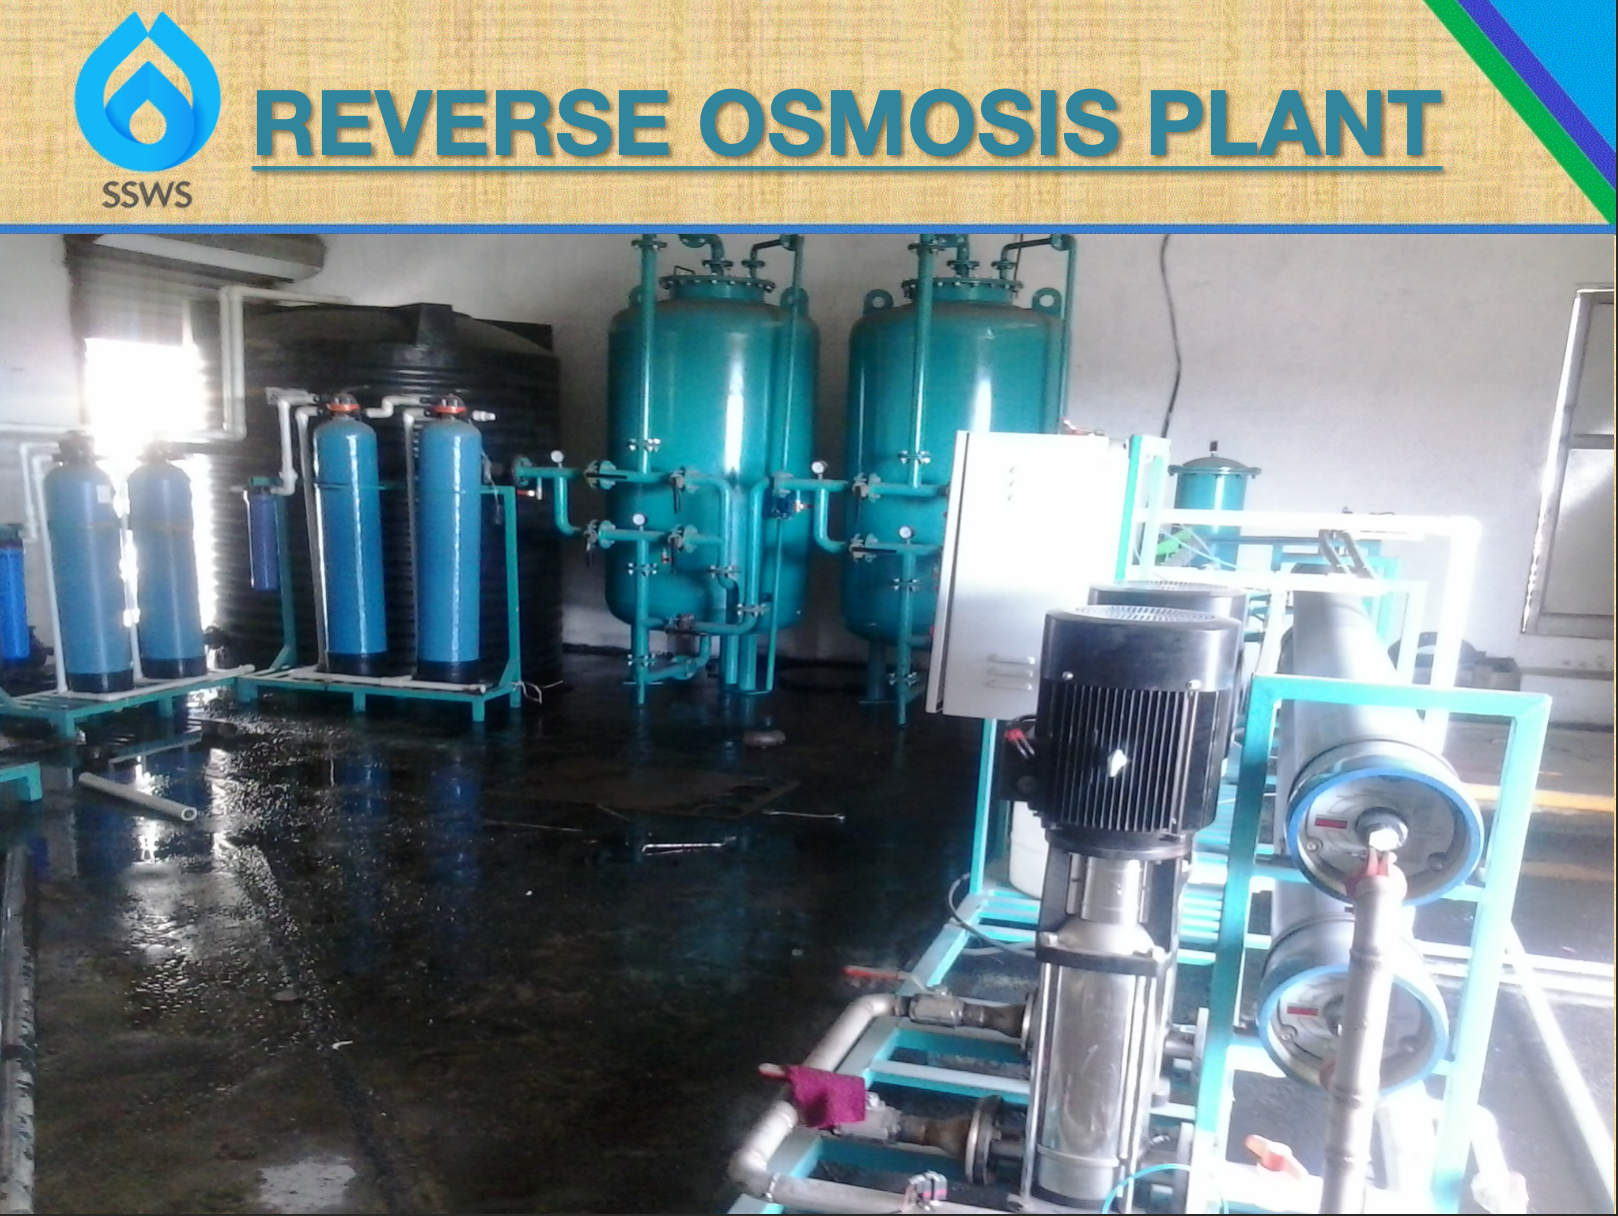
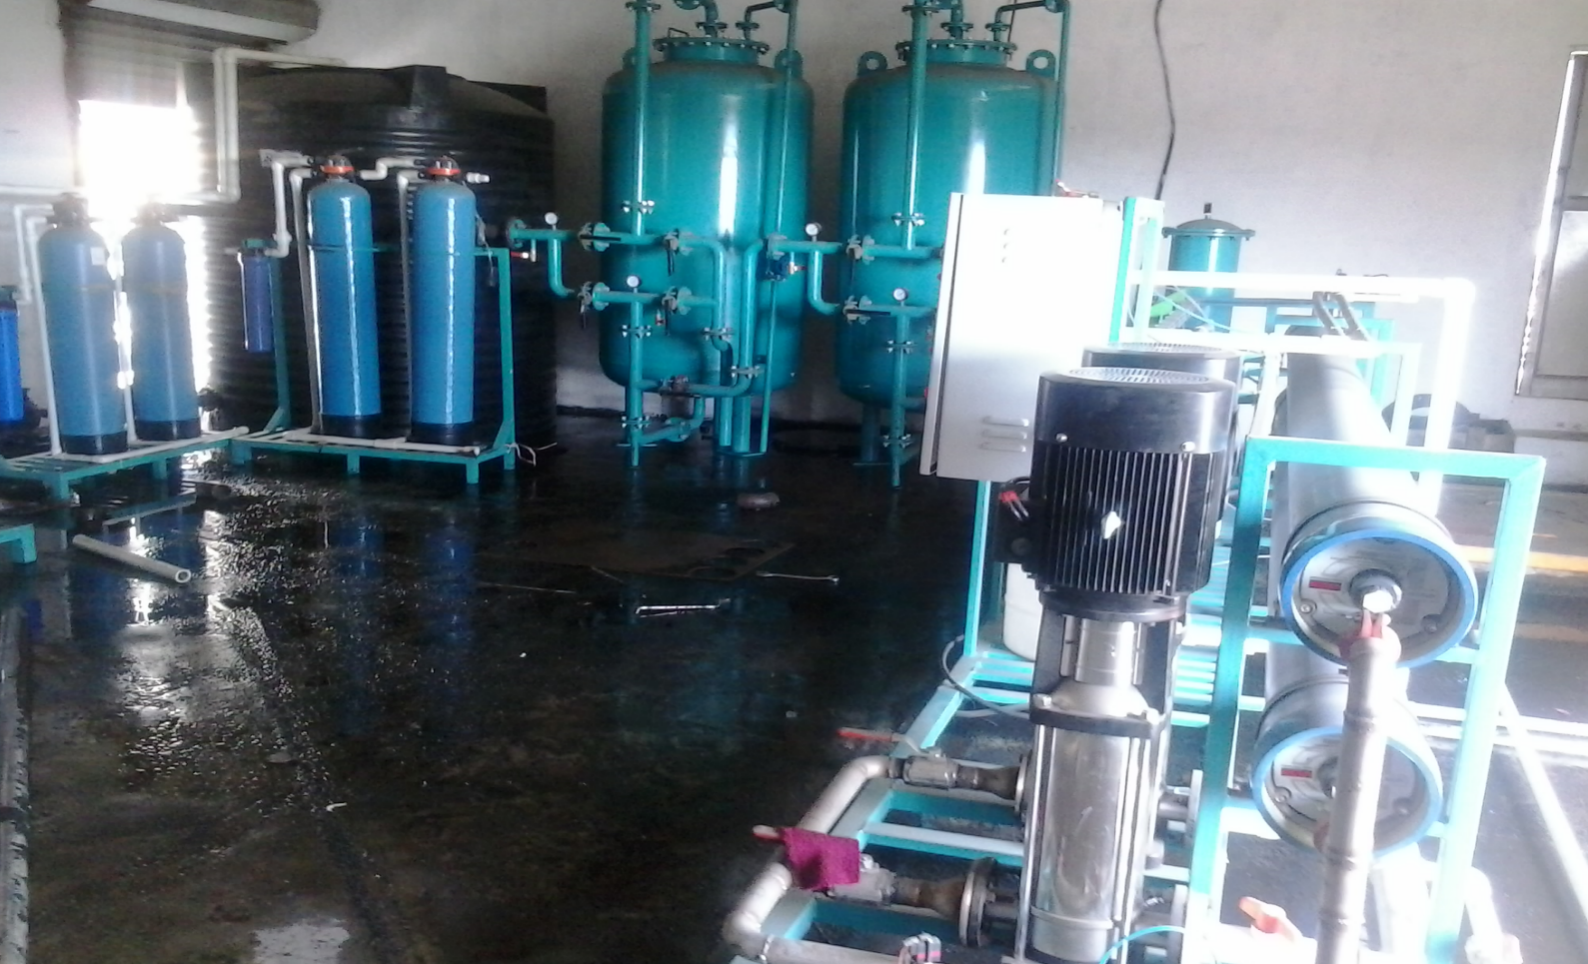
Update product images and modify Home and Filtration Plant pages
- Replaced the image for the Filtration Plant with a new image.
- Added a new product entry for Advanced Filtration on the Home page.
- Updated image references in the Filtration Plant page and removed outdated images.
- Adjusted navigation link for products to point to the water treatment section.

diff --git a/src/pages/Home.jsx b/src/pages/Home.jsx
@@ -58,9 +58,16 @@ const Home = () => {
     {
       name: 'Filtration Plant',
       description: 'Media, cartridge & membrane filtration technologies',
-      image: '/products/Water Filtration/Water Filtration 1.png',
+      image: '/products/Water Filtration/Water Filtration 3.JPG',
       path: '/products/filtration-plant',
       icon: '🏭'
+    },
+    {
+      name: 'Advanced Filtration',
+      description: 'High-efficiency filtration systems for industrial applications',
+      image: '/products/Water Filtration/Water Filtration 4.jpg',
+      path: '/products/filtration-plant',
+      icon: '🔧'
     },
     {
       name: 'Softener Plant',
@@ -367,7 +374,7 @@ const Home = () => {
                 </svg>
             </Link>
               <Link
-                to="/products"
+                to="/products/water-treatment"
                 className="border-2 border-white text-white px-8 py-4 rounded-xl font-semibold text-lg transition-all duration-300 hover:scale-105 hover:bg-white hover:text-blue-600 inline-flex items-center justify-center"
               >
                 View All Products

diff --git a/src/pages/products/FiltrationPlant.jsx b/src/pages/products/FiltrationPlant.jsx
@@ -69,7 +69,7 @@ const FiltrationPlant = () => {
           <div className="text-center max-w-4xl mx-auto">
             <div className="mb-8">
               <img 
-                src="/products/Water Filtration/Water Filtration 1.png" 
+                src="/products/Water Filtration/Water Filtration 5.jpg" 
                 alt="Filtration Plant" 
                 className="mx-auto max-w-full h-auto max-h-96 object-contain rounded-lg shadow-2xl"
               />
@@ -126,7 +126,7 @@ const FiltrationPlant = () => {
             <div className="grid grid-cols-1 md:grid-cols-2 lg:grid-cols-3 gap-8">
               <div className={`${themeClasses.card} p-6 hover:shadow-xl transition-all duration-300 group`}>
                 <img 
-                  src="/products/Water Filtration/Water Filtration 1.png" 
+                  src="/products/Water Filtration/Water Filtration 5.jpg" 
                   alt="Main Filtration Plant" 
                   className="w-full h-48 object-cover rounded-lg mb-4 group-hover:scale-105 transition-transform duration-300"
                 />
@@ -138,7 +138,7 @@ const FiltrationPlant = () => {
                 </p>
               </div>
 
-              <div className={`${themeClasses.card} p-6 hover:shadow-xl transition-all duration-300 group`}>
+              {/* <div className={`${themeClasses.card} p-6 hover:shadow-xl transition-all duration-300 group`}>
                 <img 
                   src="/products/Water Filtration/Water Filtration 2.HEIC" 
                   alt="Sand Filter System" 
@@ -150,7 +150,7 @@ const FiltrationPlant = () => {
                 <p className={`text-sm ${themeClasses.text.secondary}`}>
                   Advanced sand filtration for removing suspended particles
                 </p>
-              </div>
+              </div> */}
 
               <div className={`${themeClasses.card} p-6 hover:shadow-xl transition-all duration-300 group`}>
                 <img 